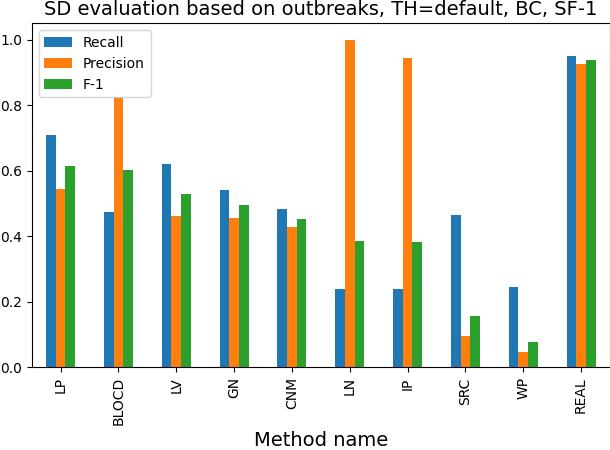
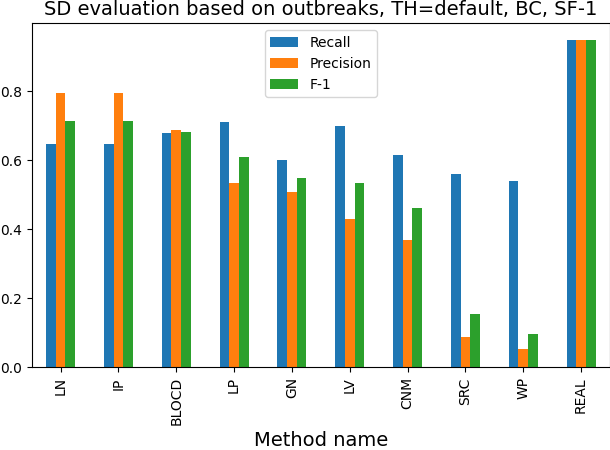
wyliczenia

diff --git a/src/rpasdt/scripts/result_stats_sd.py b/src/rpasdt/scripts/result_stats_sd.py
@@ -36,15 +36,15 @@ SD_METHOD_NAMES = {
     "betweenness": "B",
     "centrality": "C",
     "unbiased": "UC",
-    centrality_m: "CM",
+    centrality_m: "BC",
     "unbiased-cm": "UCM",
     rumor: "RC",
     jordan: "JC",
-    netsleuth: "N",
+    netsleuth: "NS",
 }
 SD_METHOD_NAMES_VERBOSE = {
-    "betweenness": "B",
-    "centrality": "C",
+    "betweenness": "BC",
+    "centrality": "BC",
     "unbiased": "UC",
     centrality_m: "BC",
     "unbiased-cm": "UCM",
@@ -98,6 +98,7 @@ NETWORK_NAME = {
     "karate_graph": "Karate club",
     # "dolphin": "Dolphin",
 }
+NETWORK_NAME_REVERTED = {value: key for key, value in NETWORK_NAME.items()}
 METHOD_NAME_LABEL = "Method name"
 
 BIG_NETWORKS = [
@@ -885,6 +886,8 @@ def draw_sd_per_method_final_data(
     ]
     if threshold:
         thresholds = [threshold]
+    if threshold_map:
+        thresholds = [None]
     stats_filename = (
         f"results/final_sd_results_stats/basic_threshold_{sd_method}_{part}.csv"
     )
@@ -907,12 +910,20 @@ def draw_sd_per_method_final_data(
             ],
         )
     for th in thresholds:
-        title = f"SD evaluation based on outbreaks, TH={threshold or 'default'}, {SD_METHOD_NAMES_VERBOSE[sd_method]}"
-        if part:
-            title += f", {NETWORK_NAME[part]}"
+
+
         data_for_threshold = {}
+
         for data_to_process in to_process:
             method = data_to_process.cm_m
+            nn = NETWORK_NAME.get(part, "Średnio")
+            if threshold_map and threshold_map.get(nn):
+                th = threshold_map [nn][SD_METHOD_NAMES[sd_method]][METHOD_NAMES[method]]
+
+            title = f"SD evaluation based on outbreaks, TH={th or 'default'}, {SD_METHOD_NAMES_VERBOSE[sd_method]}"
+            if part:
+                title += f", {nn}"
+
             if method not in data_for_threshold:
                 data_for_threshold[method] = {
                     "ACC": list(),
@@ -1188,25 +1199,32 @@ def generate_finals_sd_report():
                 # draw_sd_per_method_final_data()
 
 
-optimal_thresholds = {
-    jordan: 0.5,
-    centrality_m: 0.5,
-    netsleuth: 0.5,
-    rumor: 0.5,
-    ensemble: 0.5,
-    ensemble_centralities: 0.5,
-}
+def get_optimal_thresholds():
+    optimum_filename = "results/final_sd_results_stats/final_sd_results_optimum.csv"
+    thresholds = {}
+    for row in read_file(optimum_filename):
+        method = row["sd_method"]
+        network = row["network"]
+        sd_method = row["method"]
+        threshold = float(row["threshold"])
+        if network not in thresholds:
+            thresholds[network] = {}
+        if sd_method not in thresholds[network]:
+            thresholds[network][sd_method] = {}
 
+        thresholds[network][sd_method][method] = threshold
+    return thresholds
 
 def generate_reports():
     threshold = 1.0
+    optimal_thresholds = get_optimal_thresholds()
     f_to_process = draw_sd_per_method_final_data
     for sd_method in SD_METHODS_TO_CHECK:
         for n in NETWORK_NAME.keys():
             f_to_process(
-                sd_method=sd_method, part=n, draw_plot=True, threshold=threshold
+                sd_method=sd_method, part=n, draw_plot=True, threshold_map=optimal_thresholds
             )
-        f_to_process(sd_method=sd_method, draw_plot=True, threshold=threshold)
+        f_to_process(sd_method=sd_method, draw_plot=True,  threshold_map=optimal_thresholds)
 
 
 # generate_reports()
